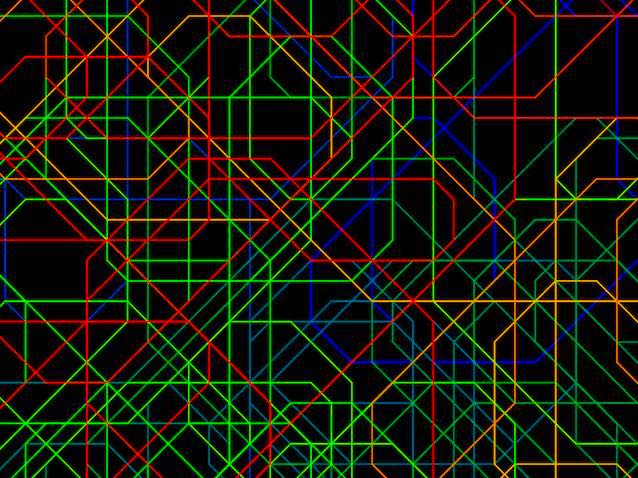
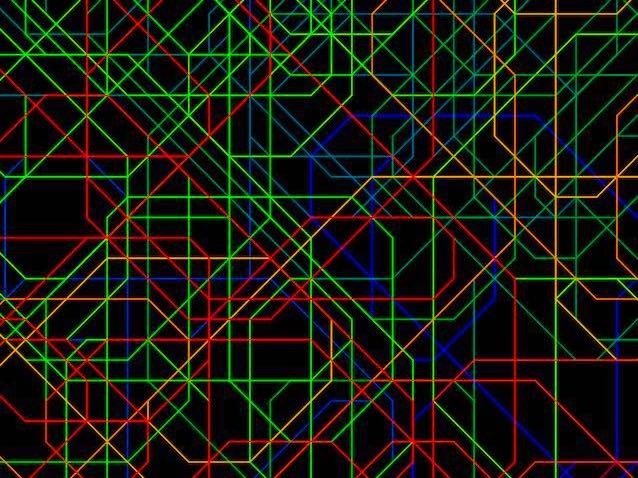
Update article links for new centerX/Y URLs
Also vertically flipped the images to account for the newly-flipped y-axis in very plotter

diff --git a/gen/articles/2021-10-25.md b/gen/articles/2021-10-25.md
@@ -19,7 +19,7 @@ For a while now I've had a note to myself to program a way to view prime numbers
 
 Here are integers 1 - 700,00 (click to view on Very Plotter):
 
-<a target="_blank" href="${SITE_ROOT_REL}/very-plotter/?seq=Primes-1-Step-90-turn&v=1&n=700000&lineWidth=0.6&scale=0.55569&offsetX=-0.15893&offsetY=-0.29626&lineColor=rbgyo&bgColor=b"><img class="center-block width-resp-75-100" src="${SITE_ROOT_REL}/img/20211025-primes-90.jpg"/></a>
+<a target="_blank" href="${SITE_ROOT_REL}/very-plotter/?seq=Primes-1-Step-90-turn&v=3&n=700000&lineWidth=0.6&scale=.55569&centerX=376.1089816264464008&centerY=602.8541093055480576&lineColor=rbgyo&bgColor=b"><img class="center-block width-resp-75-100" src="${SITE_ROOT_REL}/img/20211025-primes-90.jpg"/></a>
 
 ### Development
 
@@ -35,15 +35,15 @@ Apply nice color schemes to the lines wasn't very difficult.  I attempted to use
 
 The algorithm described in the first paragraph (turning 90 degrees on primes, and stepping forward once for all integers) worked better than I expected, so I created another "sequence" to view: turning 45 degrees on primes instead of 90.  This creates a similar plot but with lots of parallel diagonal lines.
 
-<a target="_blank" href="${SITE_ROOT_REL}/very-plotter/?seq=Primes-1-Step-45-turn&v=1&n=32400&lineWidth=2&scale=10.95&offsetX=-0.30847&offsetY=-0.96171&lineColor=rbgyo&bgColor=b"><img class="center-block width-resp-75-100" src="${SITE_ROOT_REL}/img/20211025-primes-45.jpg"/></a>
+<a target="_blank" href="${SITE_ROOT_REL}/very-plotter/?seq=Primes-1-Step-45-turn&v=3&n=32400&lineWidth=2&scale=10.95&centerX=27.3059360730593624&centerY=93.0593607305936056&lineColor=rbgyo&bgColor=b"><img class="center-block width-resp-75-100" src="${SITE_ROOT_REL}/img/20211025-primes-45.jpg"/></a>
 
 I thought that turning on perfect squares instead of primes would create a spiral, and that hunch turned out to be true.  The plots for turning 90 and 45 degrees on squares aren't that interesting but they're useful for debugging the line coloration code.
 
-<a target="_blank" href="${SITE_ROOT_REL}/very-plotter/?seq=Squares-1-Step-90-turn&v=1&n=2500&lineWidth=2&scale=6.5&offsetX=0&offsetY=0&lineColor=br&bgColor=b"><img class="center-block width-resp-75-100" src="${SITE_ROOT_REL}/img/20211025-squares.png"/></a>
+<a target="_blank" href="${SITE_ROOT_REL}/very-plotter/?seq=Squares-1-Step-90-turn&v=3&n=500&lineWidth=2&scale=6.5&centerX=0&centerY=0&lineColor=br&bgColor=b"><img class="center-block width-resp-75-100" src="${SITE_ROOT_REL}/img/20211025-squares.png"/></a>
 
 The next sequence I thought to plot was the "Trapped Knight" sequence from a Numberphile video I'd seen a while ago.  This is <a target='_blank' href='https://oeis.org/A316667'>sequence A316667 on the OEIS</a> and it was featured in the great <a target='_blank' href='https://www.youtube.com/watch?v=RGQe8waGJ4w'>Numberphile video here</a>.  If you're at all interested in this stuff I highly recommend watching the video.  I calculate this plot by first brute force calculating the spiral-numbered chessboard squares, then brute force calculating where the knight can jump to according to the rules of the OEIS sequence.  There may be a better way to do it but this generates what appears to be the same plot.  It's fun to look at.
 
-<a target="_blank" href="${SITE_ROOT_REL}/very-plotter/?seq=Trapped-Knight&v=1&n=2016&lineWidth=1.5&scale=41.06678&offsetX=0.00504&offsetY=0.02904&lineColor=op&bgColor=b"><img class="center-block width-resp-75-100" src="${SITE_ROOT_REL}/img/20211025-trapped-knight.jpg"/></a>
+<a target="_blank" href="${SITE_ROOT_REL}/very-plotter/?seq=Trapped-Knight&v=3&n=2016&lineWidth=1.5&scale=41.06678&centerX=0&centerY=0&lineColor=op&bgColor=b"><img class="center-block width-resp-75-100" src="${SITE_ROOT_REL}/img/20211025-trapped-knight.jpg"/></a>
 
 ### Future Plans
 
